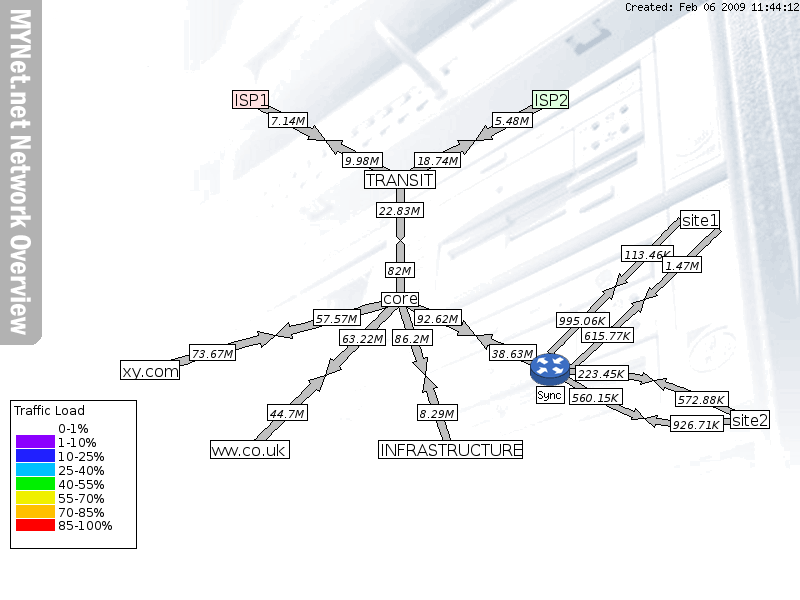
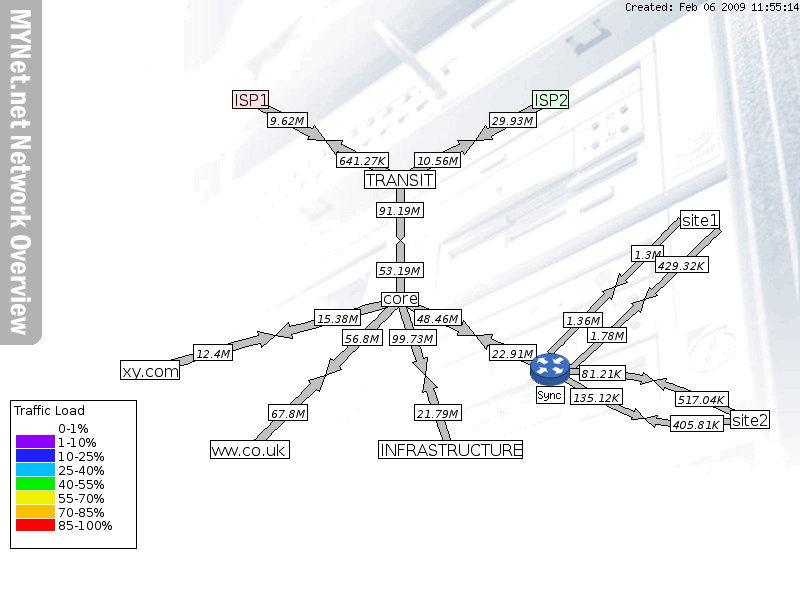
Added NaN check to poller_output stuff
git-svn-id: http://www.network-weathermap.com/svn/repos/trunk@309 efb71b59-4013-dc11-a8f3-0211060063e7

diff --git a/docs/example/example.html b/docs/example/example.html
@@ -15,44 +15,44 @@
 <area id="LINK:sync-core:2"  href="graph_page.html"  onmouseover="return overlib('&lt;img  WIDTH=395 HEIGHT=153 src=graph_image.png&gt;',DELAY,250,WIDTH,395,LEFT,HEIGHT,153,ABOVE,CAPTION,'sync-core');"  onmouseout="return nd();"  shape="rect" coords="414,310,461,325" />
 <area id="LINK:sync-core:0"  href="graph_page.html"  onmouseover="return overlib('&lt;img  WIDTH=395 HEIGHT=153 src=graph_image.png&gt;',DELAY,250,WIDTH,395,LEFT,HEIGHT,153,ABOVE,CAPTION,'sync-core');"  onmouseout="return nd();"  shape="poly" coords="398,303,400,304,403,306,407,307,410,309,414,311,419,313,423,315,428,317,433,320,439,322,444,325,450,327,455,330,458,331,457,335,475,335,463,320,462,324,459,323,453,320,447,317,442,315,437,312,432,310,427,308,422,306,418,304,414,302,410,300,407,298,404,297,401,296" />
 <area id="LINK:sync-core:1"  href="graph_page.html"  onmouseover="return overlib('&lt;img  WIDTH=395 HEIGHT=153 src=graph_image.png&gt;',DELAY,250,WIDTH,395,LEFT,HEIGHT,153,ABOVE,CAPTION,'sync-core');"  onmouseout="return nd();"  shape="poly" coords="548,373,542,371,539,369,535,367,531,365,527,363,522,361,517,359,512,357,507,354,502,352,496,349,487,345,486,349,475,335,492,334,491,338,499,342,505,344,510,347,516,349,521,352,526,354,530,356,535,358,539,360,542,362,546,363,551,366" />
-<area id="LINK:sync-site1a:3"  href="graph_page.html"  onmouseover="return overlib('&lt;img  WIDTH=395 HEIGHT=153 src=graph_image.png&gt;',DELAY,250,WIDTH,395,LEFT,HEIGHT,153,CAPTION,'sync-site1a');"  onmouseout="return nd();"  shape="rect" coords="556,312,609,328" />
-<area id="LINK:sync-site1a:2"  href="graph_page.html"  onmouseover="return overlib('&lt;img  WIDTH=395 HEIGHT=153 src=graph_image.png&gt;',DELAY,250,WIDTH,395,LEFT,HEIGHT,153,CAPTION,'sync-site1a');"  onmouseout="return nd();"  shape="rect" coords="622,246,674,261" />
+<area id="LINK:sync-site1a:3"  href="graph_page.html"  onmouseover="return overlib('&lt;img  WIDTH=395 HEIGHT=153 src=graph_image.png&gt;',DELAY,250,WIDTH,395,LEFT,HEIGHT,153,CAPTION,'sync-site1a');"  onmouseout="return nd();"  shape="rect" coords="563,312,602,328" />
+<area id="LINK:sync-site1a:2"  href="graph_page.html"  onmouseover="return overlib('&lt;img  WIDTH=395 HEIGHT=153 src=graph_image.png&gt;',DELAY,250,WIDTH,395,LEFT,HEIGHT,153,CAPTION,'sync-site1a');"  onmouseout="return nd();"  shape="rect" coords="632,246,664,261" />
 <area id="LINK:sync-site1a:0"  href="graph_page.html"  onmouseover="return overlib('&lt;img  WIDTH=395 HEIGHT=153 src=graph_image.png&gt;',DELAY,250,WIDTH,395,LEFT,HEIGHT,153,CAPTION,'sync-site1a');"  onmouseout="return nd();"  shape="poly" coords="678,217,676,220,673,222,670,225,667,229,663,232,660,236,656,240,651,245,647,249,642,254,638,259,633,264,628,269,623,274,621,276,619,273,615,286,627,282,625,280,627,278,632,273,637,268,642,263,647,258,651,253,656,249,660,244,664,240,668,236,671,233,674,230,677,227,680,224,682,222" />
 <area id="LINK:sync-site1a:1"  href="graph_page.html"  onmouseover="return overlib('&lt;img  WIDTH=395 HEIGHT=153 src=graph_image.png&gt;',DELAY,250,WIDTH,395,LEFT,HEIGHT,153,CAPTION,'sync-site1a');"  onmouseout="return nd();"  shape="poly" coords="547,351,552,346,555,343,558,340,562,336,566,332,570,328,574,324,578,319,583,315,588,310,592,305,597,300,604,293,602,291,615,286,611,299,609,297,602,304,597,309,592,314,587,319,583,323,578,328,574,332,570,336,566,340,563,344,559,347,556,350,552,355" />
-<area id="LINK:sync-site1b:3"  href="graph_page.html"  onmouseover="return overlib('&lt;img  WIDTH=395 HEIGHT=153 src=graph_image.png&gt;',DELAY,250,WIDTH,395,LEFT,HEIGHT,153,CAPTION,'sync-site1b');"  onmouseout="return nd();"  shape="rect" coords="581,327,633,343" />
-<area id="LINK:sync-site1b:2"  href="graph_page.html"  onmouseover="return overlib('&lt;img  WIDTH=395 HEIGHT=153 src=graph_image.png&gt;',DELAY,250,WIDTH,395,LEFT,HEIGHT,153,CAPTION,'sync-site1b');"  onmouseout="return nd();"  shape="rect" coords="663,257,702,272" />
+<area id="LINK:sync-site1b:3"  href="graph_page.html"  onmouseover="return overlib('&lt;img  WIDTH=395 HEIGHT=153 src=graph_image.png&gt;',DELAY,250,WIDTH,395,LEFT,HEIGHT,153,CAPTION,'sync-site1b');"  onmouseout="return nd();"  shape="rect" coords="588,327,627,343" />
+<area id="LINK:sync-site1b:2"  href="graph_page.html"  onmouseover="return overlib('&lt;img  WIDTH=395 HEIGHT=153 src=graph_image.png&gt;',DELAY,250,WIDTH,395,LEFT,HEIGHT,153,CAPTION,'sync-site1b');"  onmouseout="return nd();"  shape="rect" coords="656,257,709,272" />
 <area id="LINK:sync-site1b:0"  href="graph_page.html"  onmouseover="return overlib('&lt;img  WIDTH=395 HEIGHT=153 src=graph_image.png&gt;',DELAY,250,WIDTH,395,LEFT,HEIGHT,153,CAPTION,'sync-site1b');"  onmouseout="return nd();"  shape="poly" coords="717,227,714,229,711,232,708,235,704,238,700,242,696,246,691,251,687,255,682,260,676,265,671,270,665,275,660,281,654,286,651,289,649,287,644,299,657,295,655,293,658,290,664,285,669,280,675,274,680,269,686,264,691,259,696,255,700,251,704,247,709,243,712,239,716,236,719,233,721,231" />
 <area id="LINK:sync-site1b:1"  href="graph_page.html"  onmouseover="return overlib('&lt;img  WIDTH=395 HEIGHT=153 src=graph_image.png&gt;',DELAY,250,WIDTH,395,LEFT,HEIGHT,153,CAPTION,'sync-site1b');"  onmouseout="return nd();"  shape="poly" coords="567,367,573,362,576,359,580,355,584,352,588,348,593,343,598,339,603,334,608,329,614,324,619,319,625,313,633,305,631,303,644,299,640,312,638,310,629,318,623,323,618,328,612,333,607,338,602,343,597,348,592,352,588,356,584,360,580,363,577,366,572,372" />
-<area id="LINK:sync-site2a:3"  href="graph_page.html"  onmouseover="return overlib('&lt;img  WIDTH=395 HEIGHT=153 src=graph_image.png&gt;',DELAY,250,WIDTH,395,LEFT,HEIGHT,153,ABOVE,CAPTION,'sync-site2a');"  onmouseout="return nd();"  shape="rect" coords="576,365,629,381" />
+<area id="LINK:sync-site2a:3"  href="graph_page.html"  onmouseover="return overlib('&lt;img  WIDTH=395 HEIGHT=153 src=graph_image.png&gt;',DELAY,250,WIDTH,395,LEFT,HEIGHT,153,ABOVE,CAPTION,'sync-site2a');"  onmouseout="return nd();"  shape="rect" coords="579,365,625,381" />
 <area id="LINK:sync-site2a:2"  href="graph_page.html"  onmouseover="return overlib('&lt;img  WIDTH=395 HEIGHT=153 src=graph_image.png&gt;',DELAY,250,WIDTH,395,LEFT,HEIGHT,153,ABOVE,CAPTION,'sync-site2a');"  onmouseout="return nd();"  shape="rect" coords="676,391,729,407" />
 <area id="LINK:sync-site2a:0"  href="graph_page.html"  onmouseover="return overlib('&lt;img  WIDTH=395 HEIGHT=153 src=graph_image.png&gt;',DELAY,250,WIDTH,395,LEFT,HEIGHT,153,ABOVE,CAPTION,'sync-site2a');"  onmouseout="return nd();"  shape="poly" coords="751,417,749,416,747,415,745,414,743,413,741,412,738,411,736,410,733,409,730,408,727,406,724,405,721,403,717,402,714,400,710,399,707,397,703,396,700,394,696,393,693,391,689,390,685,388,682,387,678,386,674,384,671,383,667,382,665,381,666,378,653,380,663,390,664,387,665,387,669,389,672,390,676,391,679,393,683,394,687,395,690,397,694,398,697,400,701,401,705,403,708,404,711,406,715,407,718,409,721,410,724,412,727,413,730,414,733,416,736,417,738,418,741,419,743,420,745,421,747,422,748,422" />
 <area id="LINK:sync-site2a:1"  href="graph_page.html"  onmouseover="return overlib('&lt;img  WIDTH=395 HEIGHT=153 src=graph_image.png&gt;',DELAY,250,WIDTH,395,LEFT,HEIGHT,153,ABOVE,CAPTION,'sync-site2a');"  onmouseout="return nd();"  shape="poly" coords="550,367,553,367,555,367,557,367,560,367,562,367,565,367,568,368,571,368,574,368,577,368,580,368,583,368,587,369,590,369,593,369,597,369,601,370,604,370,608,370,612,370,615,371,619,371,623,372,626,372,630,373,633,373,637,374,642,375,643,372,653,380,640,384,641,381,636,380,632,379,629,379,625,378,622,378,618,377,615,377,611,376,607,376,604,376,600,376,597,375,593,375,590,375,586,375,583,374,580,374,576,374,573,374,570,374,567,374,565,373,562,373,559,373,557,373,555,373,553,373,549,372" />
-<area id="LINK:sync-site2b:3"  href="graph_page.html"  onmouseover="return overlib('&lt;img  WIDTH=395 HEIGHT=153 src=graph_image.png&gt;',DELAY,250,WIDTH,395,LEFT,HEIGHT,153,ABOVE,CAPTION,'sync-site2b');"  onmouseout="return nd();"  shape="rect" coords="570,389,623,404" />
+<area id="LINK:sync-site2b:3"  href="graph_page.html"  onmouseover="return overlib('&lt;img  WIDTH=395 HEIGHT=153 src=graph_image.png&gt;',DELAY,250,WIDTH,395,LEFT,HEIGHT,153,ABOVE,CAPTION,'sync-site2b');"  onmouseout="return nd();"  shape="rect" coords="570,389,622,404" />
 <area id="LINK:sync-site2b:2"  href="graph_page.html"  onmouseover="return overlib('&lt;img  WIDTH=395 HEIGHT=153 src=graph_image.png&gt;',DELAY,250,WIDTH,395,LEFT,HEIGHT,153,ABOVE,CAPTION,'sync-site2b');"  onmouseout="return nd();"  shape="rect" coords="671,416,724,431" />
 <area id="LINK:sync-site2b:0"  href="graph_page.html"  onmouseover="return overlib('&lt;img  WIDTH=395 HEIGHT=153 src=graph_image.png&gt;',DELAY,250,WIDTH,395,LEFT,HEIGHT,153,ABOVE,CAPTION,'sync-site2b');"  onmouseout="return nd();"  shape="poly" coords="749,417,748,417,746,417,744,417,742,417,739,417,737,417,734,417,731,418,728,418,725,418,722,418,719,419,716,419,712,419,709,419,706,420,702,420,699,420,695,420,691,420,688,420,684,420,681,420,677,420,673,420,670,420,666,419,663,419,660,418,657,418,656,418,657,415,644,418,654,427,655,424,655,424,659,424,662,425,666,425,669,426,673,426,677,426,680,426,684,426,688,426,691,426,695,426,699,426,702,426,706,426,709,425,713,425,716,425,720,425,723,424,726,424,729,424,732,424,735,423,737,423,740,423,742,423,744,423,746,423,748,423,750,422" />
 <area id="LINK:sync-site2b:1"  href="graph_page.html"  onmouseover="return overlib('&lt;img  WIDTH=395 HEIGHT=153 src=graph_image.png&gt;',DELAY,250,WIDTH,395,LEFT,HEIGHT,153,ABOVE,CAPTION,'sync-site2b');"  onmouseout="return nd();"  shape="poly" coords="551,367,554,369,557,370,559,371,561,372,564,374,566,375,569,377,572,379,575,381,578,382,581,384,584,386,588,388,591,390,595,392,598,394,602,396,605,398,609,400,613,401,616,403,620,405,623,407,627,408,634,411,635,408,644,418,631,419,632,417,625,414,621,412,617,410,614,409,610,407,606,405,603,403,599,401,595,399,592,397,588,395,585,393,581,391,578,389,575,388,572,386,569,384,566,382,563,381,561,379,558,378,556,376,554,375,552,374,548,372" />
-<area id="LINK:transit-isp1:3"  href="graph_page.html"  onmouseover="return overlib('&lt;img  WIDTH=395 HEIGHT=153 src=graph_image.png&gt;',DELAY,250,WIDTH,395,HEIGHT,153,CAPTION,'transit-isp1');"  onmouseout="return nd();"  shape="rect" coords="343,152,383,168" />
-<area id="LINK:transit-isp1:2"  href="graph_page.html"  onmouseover="return overlib('&lt;img  WIDTH=395 HEIGHT=153 src=graph_image.png&gt;',DELAY,250,WIDTH,395,HEIGHT,153,CAPTION,'transit-isp1');"  onmouseout="return nd();"  shape="rect" coords="268,112,307,128" />
+<area id="LINK:transit-isp1:3"  href="graph_page.html"  onmouseover="return overlib('&lt;img  WIDTH=395 HEIGHT=153 src=graph_image.png&gt;',DELAY,250,WIDTH,395,HEIGHT,153,CAPTION,'transit-isp1');"  onmouseout="return nd();"  shape="rect" coords="337,152,389,168" />
+<area id="LINK:transit-isp1:2"  href="graph_page.html"  onmouseover="return overlib('&lt;img  WIDTH=395 HEIGHT=153 src=graph_image.png&gt;',DELAY,250,WIDTH,395,HEIGHT,153,CAPTION,'transit-isp1');"  onmouseout="return nd();"  shape="rect" coords="268,112,308,128" />
 <area id="LINK:transit-isp1:0"  href="graph_page.html"  onmouseover="return overlib('&lt;img  WIDTH=395 HEIGHT=153 src=graph_image.png&gt;',DELAY,250,WIDTH,395,HEIGHT,153,CAPTION,'transit-isp1');"  onmouseout="return nd();"  shape="poly" coords="248,103,250,104,253,106,257,108,260,110,264,112,269,114,273,117,278,119,283,122,288,125,294,128,299,131,305,134,309,136,307,139,325,140,314,125,312,128,309,127,303,124,298,121,292,118,287,115,282,112,277,110,272,107,268,105,264,103,260,101,257,99,254,97,251,96" />
 <area id="LINK:transit-isp1:1"  href="graph_page.html"  onmouseover="return overlib('&lt;img  WIDTH=395 HEIGHT=153 src=graph_image.png&gt;',DELAY,250,WIDTH,395,HEIGHT,153,CAPTION,'transit-isp1');"  onmouseout="return nd();"  shape="poly" coords="398,183,392,180,389,178,385,176,381,174,377,172,372,169,367,167,362,164,357,161,351,158,346,155,337,151,335,154,325,140,342,140,341,144,350,148,355,151,361,154,366,157,371,160,376,162,380,165,385,167,389,169,392,171,396,173,401,176" />
 <area id="LINK:transit-isp2:3"  href="graph_page.html"  onmouseover="return overlib('&lt;img  WIDTH=395 HEIGHT=153 src=graph_image.png&gt;',DELAY,250,WIDTH,395,LEFT,HEIGHT,153,CAPTION,'transit-isp2');"  onmouseout="return nd();"  shape="rect" coords="415,152,461,168" />
-<area id="LINK:transit-isp2:2"  href="graph_page.html"  onmouseover="return overlib('&lt;img  WIDTH=395 HEIGHT=153 src=graph_image.png&gt;',DELAY,250,WIDTH,395,LEFT,HEIGHT,153,CAPTION,'transit-isp2');"  onmouseout="return nd();"  shape="rect" coords="493,112,533,128" />
+<area id="LINK:transit-isp2:2"  href="graph_page.html"  onmouseover="return overlib('&lt;img  WIDTH=395 HEIGHT=153 src=graph_image.png&gt;',DELAY,250,WIDTH,395,LEFT,HEIGHT,153,CAPTION,'transit-isp2');"  onmouseout="return nd();"  shape="rect" coords="489,112,536,128" />
 <area id="LINK:transit-isp2:0"  href="graph_page.html"  onmouseover="return overlib('&lt;img  WIDTH=395 HEIGHT=153 src=graph_image.png&gt;',DELAY,250,WIDTH,395,LEFT,HEIGHT,153,CAPTION,'transit-isp2');"  onmouseout="return nd();"  shape="poly" coords="548,96,545,97,542,99,539,101,535,103,531,105,527,107,522,110,517,112,512,115,507,118,501,121,496,124,490,127,487,128,485,125,475,140,492,139,491,136,494,134,500,131,505,128,511,125,516,122,521,119,526,117,530,114,535,112,539,110,542,108,546,106,549,104,551,103" />
 <area id="LINK:transit-isp2:1"  href="graph_page.html"  onmouseover="return overlib('&lt;img  WIDTH=395 HEIGHT=153 src=graph_image.png&gt;',DELAY,250,WIDTH,395,LEFT,HEIGHT,153,CAPTION,'transit-isp2');"  onmouseout="return nd();"  shape="poly" coords="398,176,403,173,407,171,410,169,414,167,419,165,423,162,428,160,433,157,438,154,444,151,449,148,459,144,457,140,475,140,464,154,462,151,453,155,448,158,442,161,437,164,432,167,427,169,422,172,418,174,414,176,410,178,407,180,401,183" />
 <area id="LINK:core-transit:3"  href="graph_page.html"  onmouseover="return overlib('&lt;img  WIDTH=395 HEIGHT=153 src=graph_image.png&gt;',DELAY,250,WIDTH,395,HEIGHT,153,CAPTION,'core-transit');"  onmouseout="return nd();"  shape="rect" coords="377,202,424,218" />
-<area id="LINK:core-transit:2"  href="graph_page.html"  onmouseover="return overlib('&lt;img  WIDTH=395 HEIGHT=153 src=graph_image.png&gt;',DELAY,250,WIDTH,395,HEIGHT,153,CAPTION,'core-transit');"  onmouseout="return nd();"  shape="rect" coords="386,262,415,278" />
+<area id="LINK:core-transit:2"  href="graph_page.html"  onmouseover="return overlib('&lt;img  WIDTH=395 HEIGHT=153 src=graph_image.png&gt;',DELAY,250,WIDTH,395,HEIGHT,153,CAPTION,'core-transit');"  onmouseout="return nd();"  shape="rect" coords="377,262,424,278" />
 <area id="LINK:core-transit:0"  href="graph_page.html"  onmouseover="return overlib('&lt;img  WIDTH=395 HEIGHT=153 src=graph_image.png&gt;',DELAY,250,WIDTH,395,HEIGHT,153,CAPTION,'core-transit');"  onmouseout="return nd();"  shape="poly" coords="404,300,404,297,404,295,404,292,404,289,404,286,404,283,404,279,404,275,404,271,404,267,404,262,404,258,404,253,404,249,404,244,404,244,404,244,400,240,396,244,396,244,396,244,396,249,396,253,396,258,396,262,396,267,396,271,396,275,396,279,396,283,396,286,396,289,396,292,396,295,396,297,396,300" />
 <area id="LINK:core-transit:1"  href="graph_page.html"  onmouseover="return overlib('&lt;img  WIDTH=395 HEIGHT=153 src=graph_image.png&gt;',DELAY,250,WIDTH,395,HEIGHT,153,CAPTION,'core-transit');"  onmouseout="return nd();"  shape="poly" coords="404,180,404,184,404,187,404,190,404,193,404,196,404,200,404,204,404,208,404,212,404,217,404,221,404,226,404,230,404,236,404,236,400,240,396,236,396,236,396,230,396,226,396,221,396,217,396,212,396,208,396,204,396,200,396,196,396,193,396,190,396,187,396,184,396,180" />
-<area id="LINK:cust1-core:3"  href="graph_page.html"  onmouseover="return overlib('&lt;img  WIDTH=395 HEIGHT=153 src=graph_image.png&gt;',DELAY,250,WIDTH,395,HEIGHT,153,ABOVE,CAPTION,'cust1-core');"  onmouseout="return nd();"  shape="rect" coords="190,345,236,360" />
-<area id="LINK:cust1-core:2"  href="graph_page.html"  onmouseover="return overlib('&lt;img  WIDTH=395 HEIGHT=153 src=graph_image.png&gt;',DELAY,250,WIDTH,395,HEIGHT,153,ABOVE,CAPTION,'cust1-core');"  onmouseout="return nd();"  shape="rect" coords="314,310,361,325" />
+<area id="LINK:cust1-core:3"  href="graph_page.html"  onmouseover="return overlib('&lt;img  WIDTH=395 HEIGHT=153 src=graph_image.png&gt;',DELAY,250,WIDTH,395,HEIGHT,153,ABOVE,CAPTION,'cust1-core');"  onmouseout="return nd();"  shape="rect" coords="193,345,232,360" />
+<area id="LINK:cust1-core:2"  href="graph_page.html"  onmouseover="return overlib('&lt;img  WIDTH=395 HEIGHT=153 src=graph_image.png&gt;',DELAY,250,WIDTH,395,HEIGHT,153,ABOVE,CAPTION,'cust1-core');"  onmouseout="return nd();"  shape="rect" coords="315,310,361,325" />
 <area id="LINK:cust1-core:0"  href="graph_page.html"  onmouseover="return overlib('&lt;img  WIDTH=395 HEIGHT=153 src=graph_image.png&gt;',DELAY,250,WIDTH,395,HEIGHT,153,ABOVE,CAPTION,'cust1-core');"  onmouseout="return nd();"  shape="poly" coords="398,296,394,297,389,298,384,300,377,302,371,303,363,305,356,308,348,310,339,312,330,315,321,317,312,320,303,323,293,325,289,326,288,322,275,335,292,338,291,334,295,333,305,330,314,328,323,325,333,322,341,320,350,318,358,315,366,313,373,311,380,309,386,307,391,306,396,305,401,303" />
 <area id="LINK:cust1-core:1"  href="graph_page.html"  onmouseover="return overlib('&lt;img  WIDTH=395 HEIGHT=153 src=graph_image.png&gt;',DELAY,250,WIDTH,395,HEIGHT,153,ABOVE,CAPTION,'cust1-core');"  onmouseout="return nd();"  shape="poly" coords="148,366,158,363,163,362,169,360,176,358,183,356,191,354,199,351,208,349,216,347,226,344,235,341,244,339,258,335,257,331,275,335,261,347,260,343,246,346,237,349,228,352,219,354,210,357,201,359,193,361,186,364,178,366,172,367,165,369,160,371,151,373" />
-<area id="LINK:cust2-core:3"  href="graph_page.html"  onmouseover="return overlib('&lt;img  WIDTH=395 HEIGHT=153 src=graph_image.png&gt;',DELAY,250,WIDTH,395,HEIGHT,153,ABOVE,CAPTION,'cust2-core');"  onmouseout="return nd();"  shape="rect" coords="268,405,308,420" />
-<area id="LINK:cust2-core:2"  href="graph_page.html"  onmouseover="return overlib('&lt;img  WIDTH=395 HEIGHT=153 src=graph_image.png&gt;',DELAY,250,WIDTH,395,HEIGHT,153,ABOVE,CAPTION,'cust2-core');"  onmouseout="return nd();"  shape="rect" coords="340,330,386,345" />
+<area id="LINK:cust2-core:3"  href="graph_page.html"  onmouseover="return overlib('&lt;img  WIDTH=395 HEIGHT=153 src=graph_image.png&gt;',DELAY,250,WIDTH,395,HEIGHT,153,ABOVE,CAPTION,'cust2-core');"  onmouseout="return nd();"  shape="rect" coords="268,405,307,420" />
+<area id="LINK:cust2-core:2"  href="graph_page.html"  onmouseover="return overlib('&lt;img  WIDTH=395 HEIGHT=153 src=graph_image.png&gt;',DELAY,250,WIDTH,395,HEIGHT,153,ABOVE,CAPTION,'cust2-core');"  onmouseout="return nd();"  shape="rect" coords="343,330,383,345" />
 <area id="LINK:cust2-core:0"  href="graph_page.html"  onmouseover="return overlib('&lt;img  WIDTH=395 HEIGHT=153 src=graph_image.png&gt;',DELAY,250,WIDTH,395,HEIGHT,153,ABOVE,CAPTION,'cust2-core');"  onmouseout="return nd();"  shape="poly" coords="397,297,394,299,391,302,388,306,384,309,380,313,376,318,371,322,366,327,361,332,356,338,350,343,345,349,339,354,333,360,333,360,330,358,325,375,341,369,339,366,339,366,345,360,350,354,356,349,361,343,367,338,372,333,377,328,381,323,386,319,390,315,393,311,397,308,400,305,402,302" />
 <area id="LINK:cust2-core:1"  href="graph_page.html"  onmouseover="return overlib('&lt;img  WIDTH=395 HEIGHT=153 src=graph_image.png&gt;',DELAY,250,WIDTH,395,HEIGHT,153,ABOVE,CAPTION,'cust2-core');"  onmouseout="return nd();"  shape="poly" coords="247,447,252,441,256,438,259,434,263,430,268,426,272,421,277,416,282,411,288,406,293,400,299,395,304,389,310,383,308,380,325,375,319,391,316,389,310,395,304,400,299,406,293,411,288,417,283,422,278,427,273,431,269,436,265,440,261,443,258,447,252,452" />
-<area id="LINK:infra-core:3"  href="graph_page.html"  onmouseover="return overlib('&lt;img  WIDTH=395 HEIGHT=153 src=graph_image.png&gt;',DELAY,250,WIDTH,395,LEFT,HEIGHT,153,ABOVE,CAPTION,'infra-core');"  onmouseout="return nd();"  shape="rect" coords="418,405,458,420" />
-<area id="LINK:infra-core:2"  href="graph_page.html"  onmouseover="return overlib('&lt;img  WIDTH=395 HEIGHT=153 src=graph_image.png&gt;',DELAY,250,WIDTH,395,LEFT,HEIGHT,153,ABOVE,CAPTION,'infra-core');"  onmouseout="return nd();"  shape="rect" coords="393,330,433,345" />
+<area id="LINK:infra-core:3"  href="graph_page.html"  onmouseover="return overlib('&lt;img  WIDTH=395 HEIGHT=153 src=graph_image.png&gt;',DELAY,250,WIDTH,395,LEFT,HEIGHT,153,ABOVE,CAPTION,'infra-core');"  onmouseout="return nd();"  shape="rect" coords="414,405,461,420" />
+<area id="LINK:infra-core:2"  href="graph_page.html"  onmouseover="return overlib('&lt;img  WIDTH=395 HEIGHT=153 src=graph_image.png&gt;',DELAY,250,WIDTH,395,LEFT,HEIGHT,153,ABOVE,CAPTION,'infra-core');"  onmouseout="return nd();"  shape="rect" coords="389,330,436,345" />
 <area id="LINK:infra-core:0"  href="graph_page.html"  onmouseover="return overlib('&lt;img  WIDTH=395 HEIGHT=153 src=graph_image.png&gt;',DELAY,250,WIDTH,395,LEFT,HEIGHT,153,ABOVE,CAPTION,'infra-core');"  onmouseout="return nd();"  shape="poly" coords="396,301,397,303,398,306,399,310,400,313,401,317,403,322,404,326,406,331,408,336,409,342,411,347,413,353,415,358,416,361,412,362,425,375,427,357,423,358,422,356,421,350,419,345,417,339,415,334,413,329,412,324,410,319,409,315,407,311,406,307,405,304,404,301,403,298" />
 <area id="LINK:infra-core:1"  href="graph_page.html"  onmouseover="return overlib('&lt;img  WIDTH=395 HEIGHT=153 src=graph_image.png&gt;',DELAY,250,WIDTH,395,LEFT,HEIGHT,153,ABOVE,CAPTION,'infra-core');"  onmouseout="return nd();"  shape="poly" coords="446,451,444,445,443,442,442,438,440,434,439,430,437,425,436,420,434,415,432,410,430,404,428,399,426,391,422,392,425,375,437,387,433,388,436,396,438,402,440,407,441,413,443,418,445,423,446,427,448,432,449,436,450,439,451,443,453,448" />
 </map><hr /><span id="byline">Network Map created with <a href="http://www.network-weathermap.com/?vs=0.96test2">PHP Network Weathermap v0.96test2</a></span></body></html>

diff --git a/setup.php b/setup.php
@@ -628,41 +628,56 @@ function weathermap_poller_output ($rrd_update_array) {
 			$period = $time - $required['last_time'];
 			$lastval = $required['last_value'];
 			
-			switch($required['data_source_type_id'])
+			// if the new value is a NaN, we'll give 0 instead, and pretend it didn't happen from the point
+			// of view of the counter etc. That way, we don't get those enormous spikes. Still doesn't deal with
+			// reboots very well, but it should improve it for drops.
+			if($value == 'U')
 			{
-				case 1: //GAUGE
-					$newvalue = $value;
-					break;
-				
-				case 2: //COUNTER
-					if ($value >= $lastval) {
-						// Everything is normal
-						$newvalue = $value - $lastval;
-					} else {
-						// Possible overflow, see if its 32bit or 64bit
-						if ($lastval > 4294967295) {
-							$newvalue = (18446744073709551615 - $lastval) + $value;
-						} else {
-							$newvalue = (4294967295 - $lastval) + $value;
-						}
-					}
-					$newvalue = $newvalue / $period;
-					break;
-				
-				case 3: //DERIVE
-					$newvalue = ($value-$lastval) / $period;
-					break;
-				
-				case 4: //ABSOLUTE
-					$newvalue = $value / $period;
-					break;
-				
-				default: // do something somewhat sensible in case something odd happens
-					$newvalue = $value;
-					warn("poller_output found an unknown data_source_type_id for $file:$dsname");
-					break;
+				$newvalue = 0;
+				$newlastvalue = $lastval;
+				$newtime = $required['last_time'];
 			}
-			db_execute("UPDATE weathermap_data SET last_time=$time, last_calc='$newvalue', last_value='$value',sequence=sequence+1  where id = " . $required['id']);
+			else
+			{
+				$newlastvalue = $value;
+				$newtime = $time;
+				
+				switch($required['data_source_type_id'])
+				{
+					case 1: //GAUGE
+						$newvalue = $value;
+						break;
+					
+					case 2: //COUNTER
+						if ($value >= $lastval) {
+							// Everything is normal
+							$newvalue = $value - $lastval;
+						} else {
+							// Possible overflow, see if its 32bit or 64bit
+							if ($lastval > 4294967295) {
+								$newvalue = (18446744073709551615 - $lastval) + $value;
+							} else {
+								$newvalue = (4294967295 - $lastval) + $value;
+							}
+						}
+						$newvalue = $newvalue / $period;
+						break;
+					
+					case 3: //DERIVE
+						$newvalue = ($value-$lastval) / $period;
+						break;
+					
+					case 4: //ABSOLUTE
+						$newvalue = $value / $period;
+						break;
+					
+					default: // do something somewhat sensible in case something odd happens
+						$newvalue = $value;
+						warn("poller_output found an unknown data_source_type_id for $file:$dsname");
+						break;
+				}
+			}
+			db_execute("UPDATE weathermap_data SET last_time=$newtime, last_calc='$newvalue', last_value='$newlastvalue',sequence=sequence+1  where id = " . $required['id']);
 	        	if($logging >= POLLER_VERBOSITY_DEBUG) cacti_log("WM poller_output: Final value is $newvalue (was $lastval, period was $period)\n",true,"WEATHERMAP");
 		}
 		else
